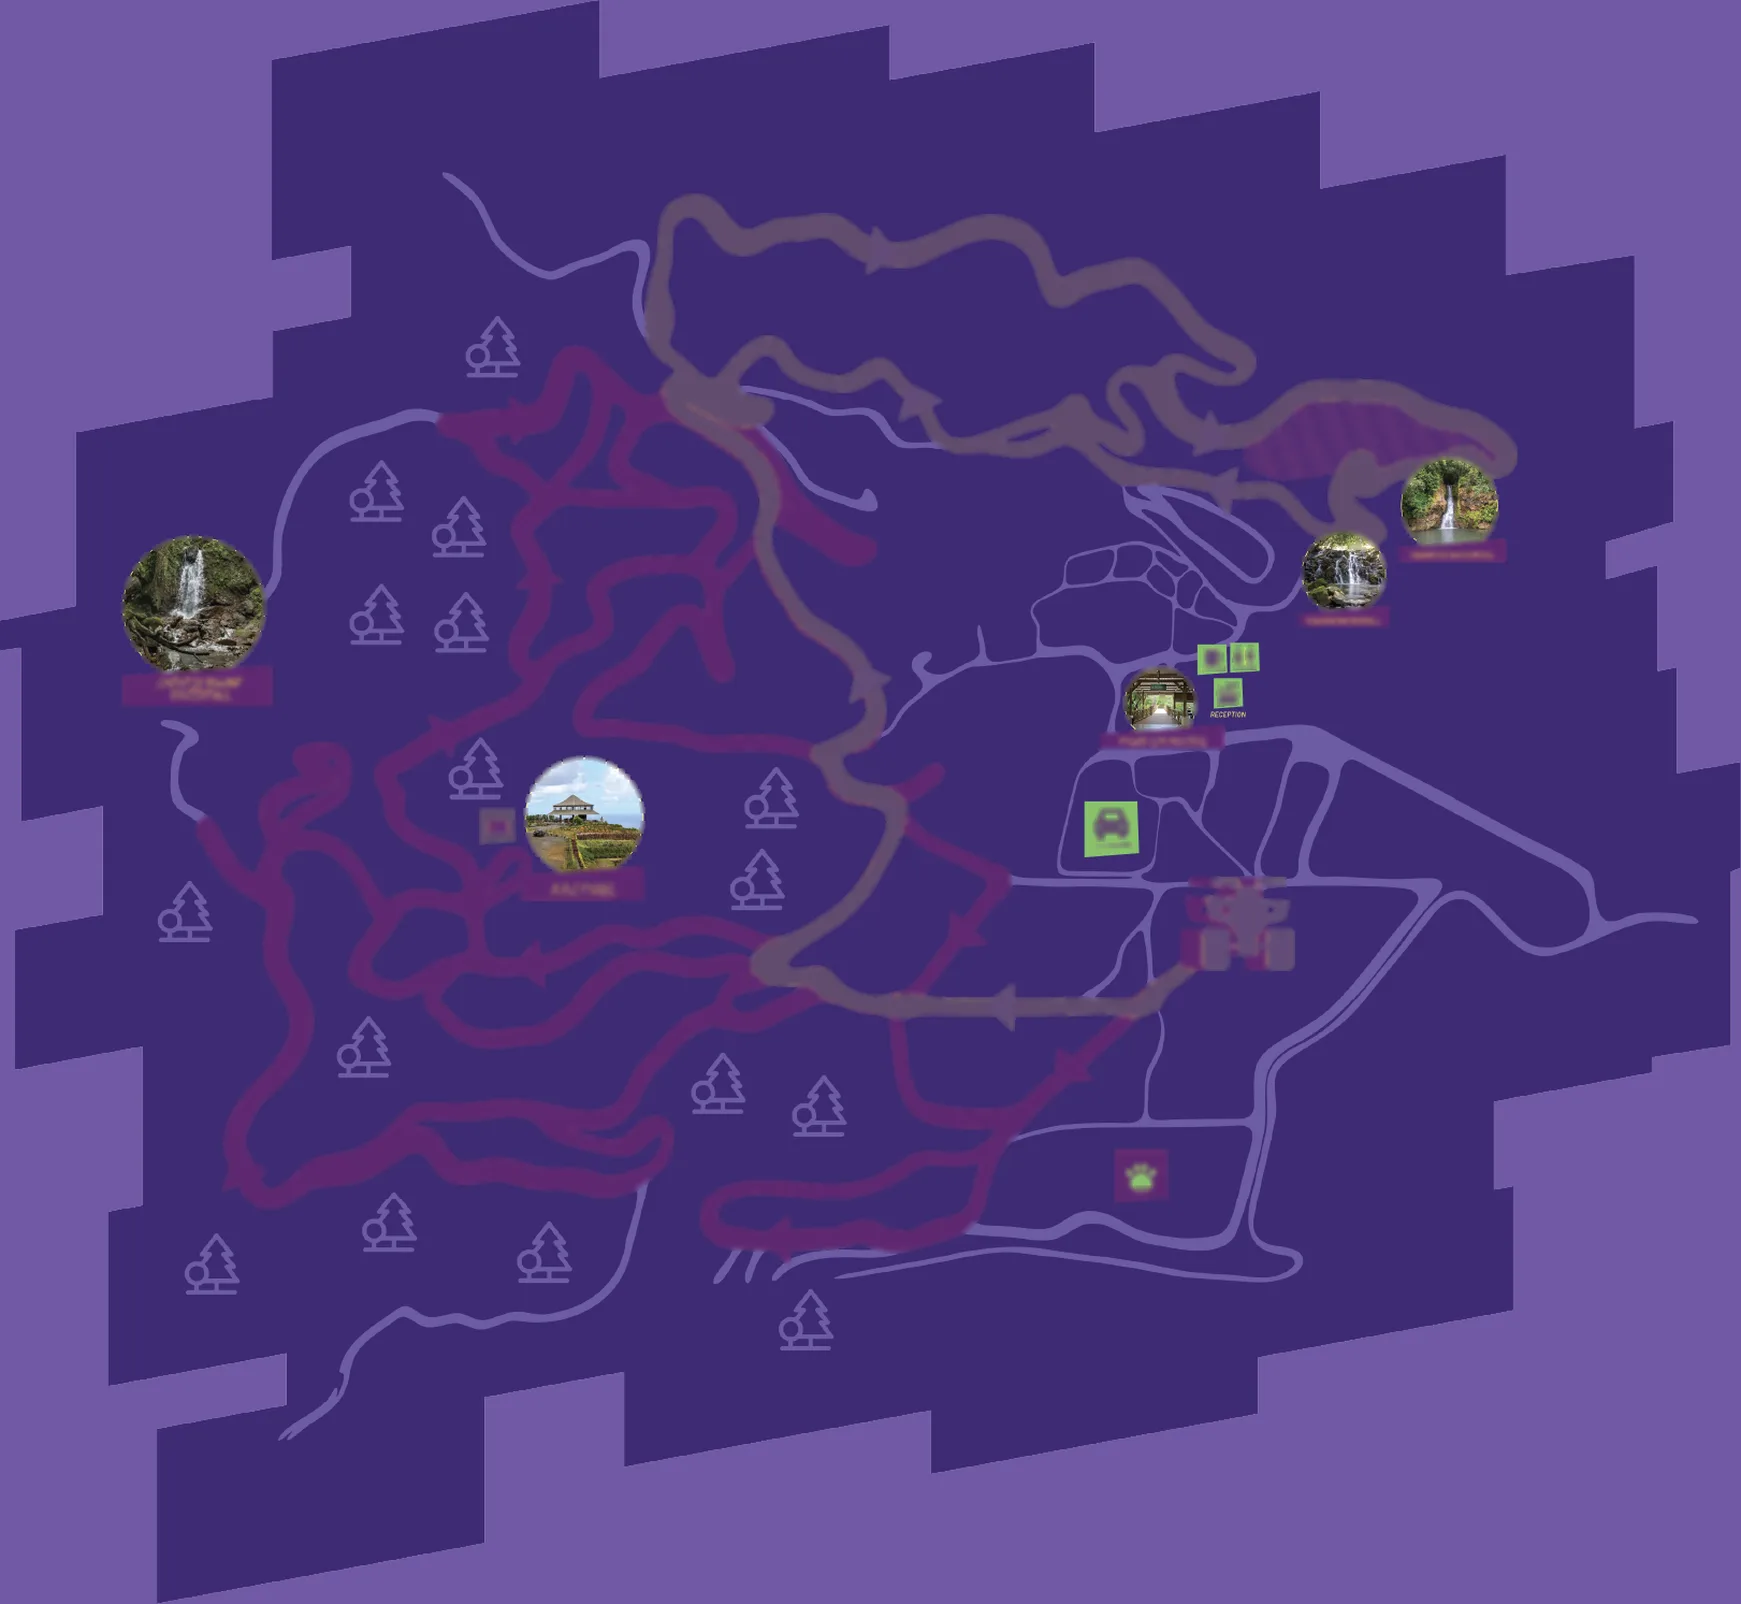
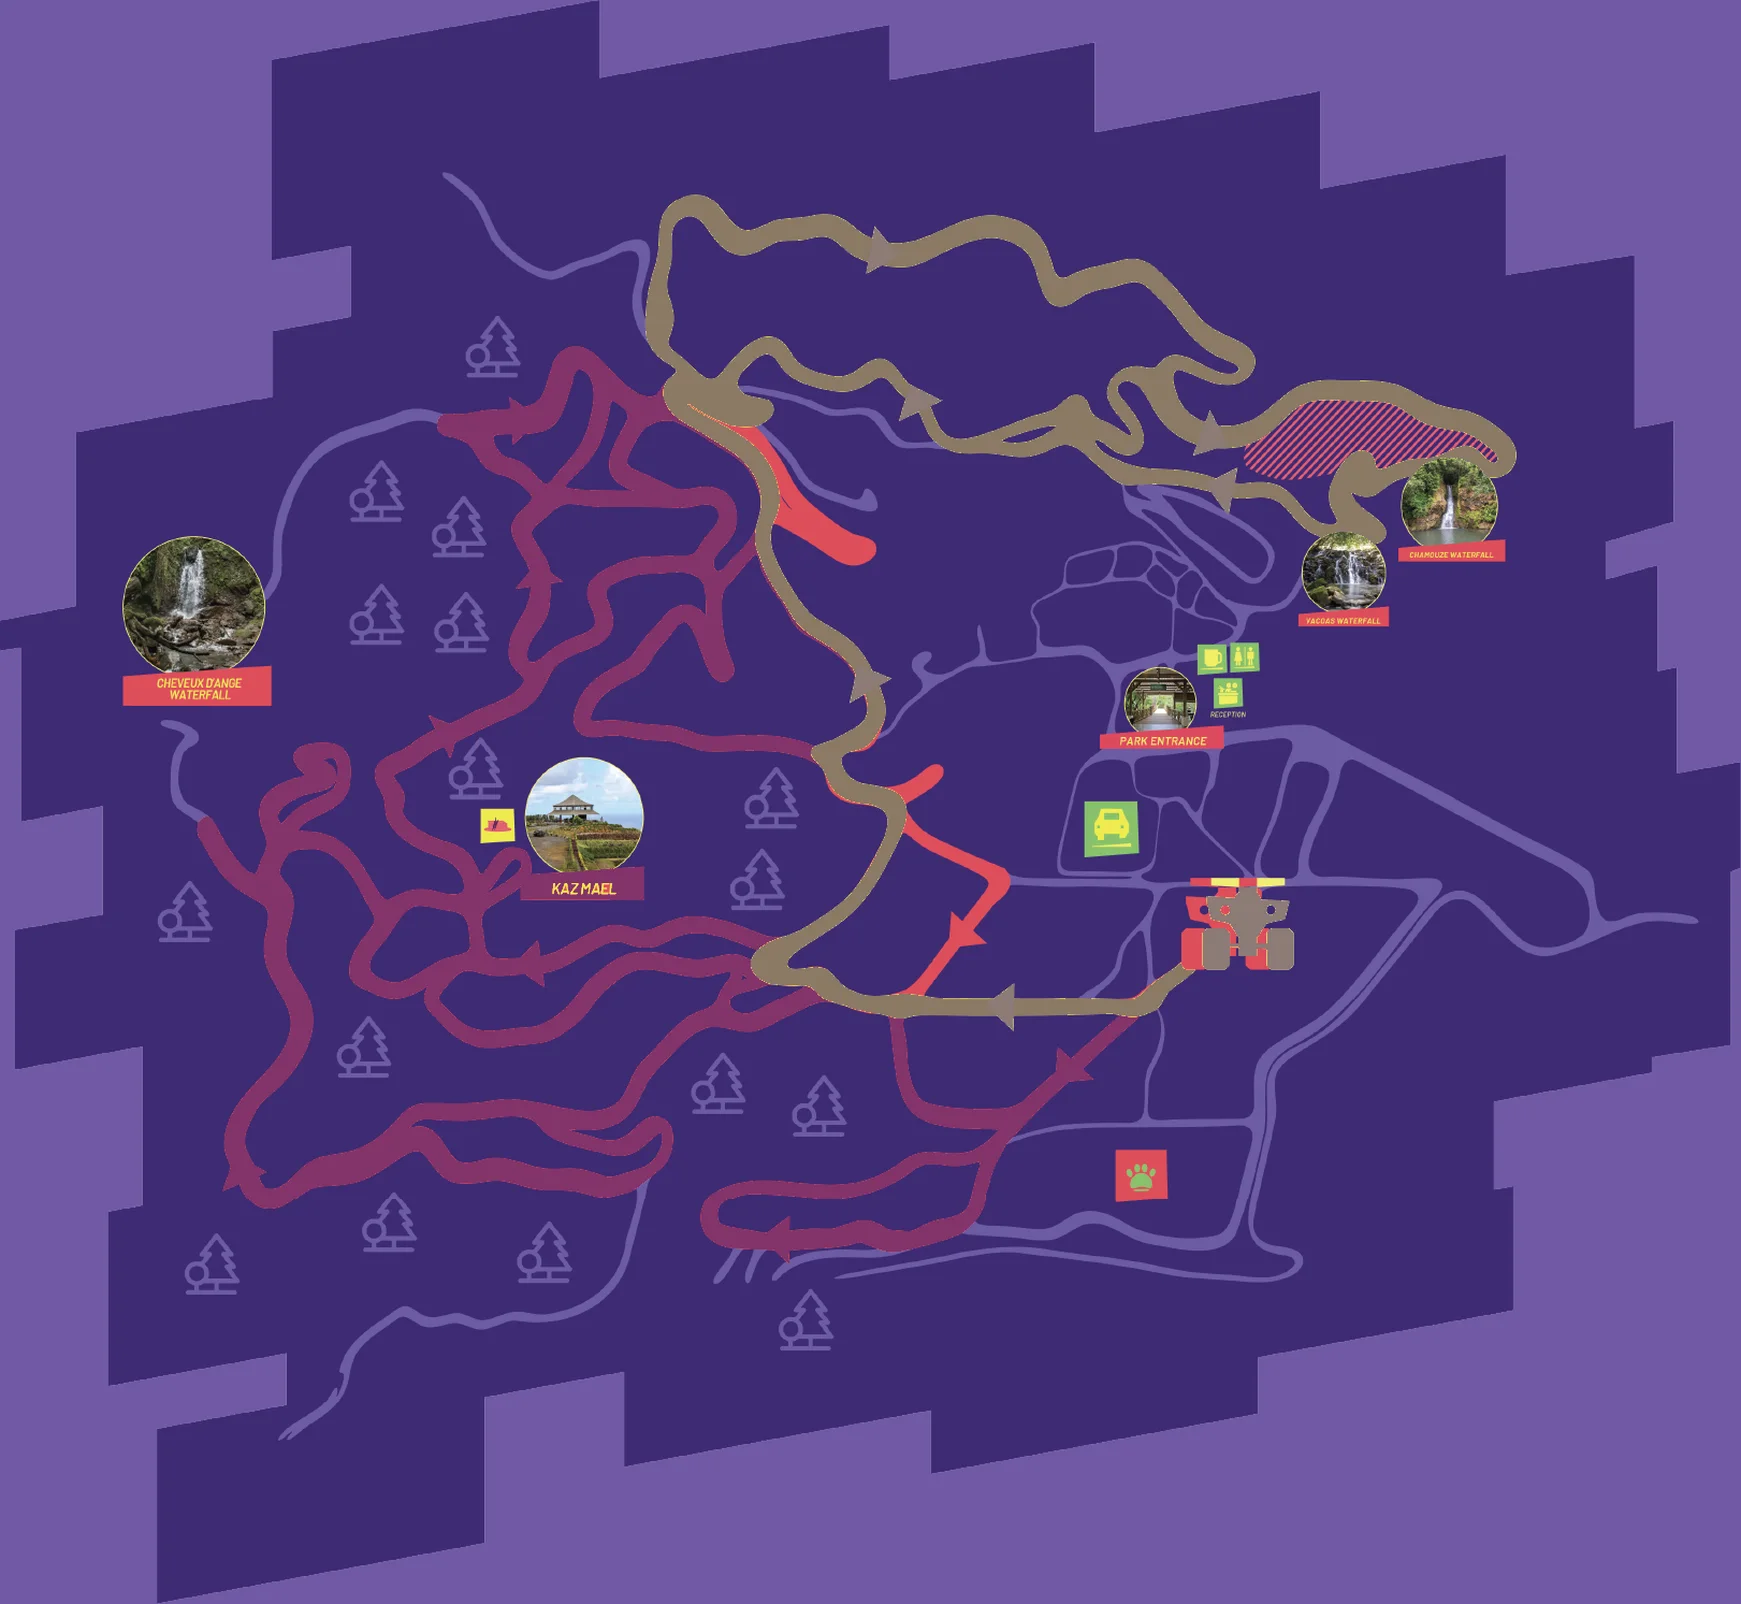
Maps: crisp quad variants, shared red stretch, real east cables, photo tile crop
- Quad map variants no longer blur anything and only dim the loop strokes,
  so labels, icons and roads stay sharp; the stretch the red track shares
  with the yellow loop is painted red on the Adventure variant.
- Zipline cables corrected from the official map (6-11, 2-10, 3-12, 5-12);
  tours re-sequenced on those cables.
- Photo wall tiles crop from the upper third and are a touch larger.

diff --git a/src/data/maps.ts b/src/data/maps.ts
@@ -139,7 +139,7 @@ export const ZIP_ROUTES: MapRoute[] = [
     blurb: 'Two lines at the Chamouzé waterfall: 200 m from the summit platform straight over the cascade and the restaurant terrace, then a 100 m hop back up.',
     priceCat: 'zipline', priceRow: 'Waterfall Zipline',
     facts: [ZH110, ZW120],
-    stations: ['3', '10', '5'],
+    stations: ['3', '12', '5'],
     img: '/images/map/zip-waterfall-pov-2.webp',
   },
   {
@@ -162,7 +162,7 @@ export const ZIP_ROUTES: MapRoute[] = [
     blurb: 'The complete flight: every cable in the network. It opens with The Signature 1.5 km across the valley, climbs the northern ridge over the Coloured Earth and both waterfalls, then finishes with the western chain up the Kazmaël slopes and back into the hub. Around 3 hours of air time.',
     priceCat: 'zipline', priceRow: 'Advenature Flight',
     facts: [ZH140, ZW40, ZW120, WIND],
-    stations: ['16', '7', '1', '4', '2', '6', '11', '12', '10', '3', '15', '14', '13', '8', '9', '7'],
+    stations: ['16', '7', '1', '4', '2', '10', '3', '12', '5', '6', '11', '15', '14', '13', '8', '9', '7'],
     signature: true,
     img: '/images/map/zip-signature-valley.webp',
   },
@@ -174,7 +174,7 @@ export const ZIP_ROUTES: MapRoute[] = [
     blurb: 'Seven lines built around The Signature: the 1.5 km flight from the far-west tower to the valley hub, then the northern ridge, the Coloured Earth and both waterfall crossings.',
     priceCat: 'zipline', priceRow: 'Sky Pulse Tour',
     facts: [ZH140, ZW40, ZW120, WIND],
-    stations: ['16', '7', '1', '4', '2', '6', '11', '12', '10', '3'],
+    stations: ['16', '7', '1', '4', '6', '11', '2', '10', '3', '12', '5'],
     signature: true,
     img: '/images/map/zip-coloured-earth-flight.webp',
   },
@@ -186,7 +186,7 @@ export const ZIP_ROUTES: MapRoute[] = [
     blurb: 'Ten lines end to end: the western chain from the south ridge up past Kazmaël, into the valley hub, over the Coloured Earth and down to the waterfalls. No Signature, all the rest.',
     priceCat: 'zipline', priceRow: '10 Flight Trail',
     facts: [ZH110, ZW120],
-    stations: ['15', '14', '13', '8', '9', '7', '1', '4', '2', '6', '11', '12', '10', '5'],
+    stations: ['15', '14', '13', '8', '9', '7', '1', '4', '6', '11', '2', '10', '3', '12', '5'],
     img: '/images/map/zip-canopy.webp',
   },
   {
@@ -197,7 +197,7 @@ export const ZIP_ROUTES: MapRoute[] = [
     blurb: 'The classic first zipline: seven short lines from the valley hub near the entrance, over the Coloured Earth ridge and down to the Chamouzé falls.',
     priceCat: 'zipline', priceRow: 'Discovery Tour',
     facts: [ZH110, ZW120],
-    stations: ['9', '7', '1', '4', '2', '6', '11', '12', '10', '3'],
+    stations: ['9', '7', '1', '4', '6', '11', '2', '10', '3', '12', '5'],
     img: '/images/map/zip-waterfall-pov.webp',
   },
   {
@@ -224,8 +224,7 @@ export const ZIP_LINES: [string, string][] = [
   ['16', '7'],   // The Signature
   ['15', '14'], ['14', '13'], ['13', '8'],
   ['9', '7'], ['7', '1'], ['1', '4'],
-  ['2', '6'], ['6', '11'],
-  ['3', '10'], ['5', '10'], ['10', '12'],
+  ['6', '11'], ['2', '10'], ['3', '12'], ['5', '12'],
 ];
 
 /** Static lines for the two suspended thrills that sit inside the zipline network. */
@@ -251,11 +250,11 @@ export const ZIP_STATIONS: MapPin[] = [
   zp('4', 70.9, 30.5, 'Coloured Earth Approach', 'The line that brings you over the first stripes of the 23 Coloured Earth.', '/images/map/zip-coloured-earth-flight.webp'),
   zp('2', 83.0, 26.9, 'Coloured Earth Overlook', 'Best view in the network: the full colour field straight below.', '/images/map/zip-coloured-earth-flight-2.webp'),
   zp('6', 76.0, 32.2, 'Coloured Earth South', 'Back across the colour field, heading for the waterfalls.', '/images/map/zip-red-flight.webp'),
-  zp('12', 81.8, 40.4, 'Vacoas Ridge', 'The platform above the Vacoas waterfall, a short walk from the falls landing.', '/images/map/zip-valley-pov.webp'),
-  zp('11', 78.1, 40.5, 'Vacoas Falls Landing', 'A short line down beside the Vacoas falls, 8 to 9 m of white water on your left.', '/images/map/zip-waterfall-pov.webp'),
-  zp('10', 85.2, 36.7, 'Chamouzé Falls Crossing', 'The waterfall crossing: straight over the Chamouzé cascade and the restaurant terrace.', '/images/map/zip-waterfall-pov-2.webp'),
-  zp('5', 84.9, 31.1, 'Chamouzé Upper', 'Climbing back above the falls for the last two lines.', '/images/map/zip-wave.webp'),
-  zp('3', 87.7, 27.8, 'Chamouzé Summit', 'The final platform of the Advenature Flight and the Discovery Tour. Harness off, photos on.', '/images/map/zip-summit-line.webp'),
+  zp('12', 81.8, 40.4, 'Vacoas Falls Landing', 'Two cables land here, right beside the Vacoas waterfall: one from the Coloured Earth ridge, one from Chamouzé Upper.', '/images/map/zip-valley-pov.webp'),
+  zp('11', 78.1, 40.5, 'Canopy Landing', 'The end of the Coloured Earth South line, a short walk from the Vacoas falls.', '/images/map/zip-waterfall-pov.webp'),
+  zp('10', 85.2, 36.7, 'Chamouzé Landing', 'Where the Coloured Earth Overlook line lands, a few steps from the Chamouzé cascade.', '/images/map/zip-waterfall-pov-2.webp'),
+  zp('5', 84.9, 31.1, 'Chamouzé Upper', 'The short 100 m hop back up from the Vacoas falls, the second line of the Waterfall Zipline.', '/images/map/zip-wave.webp'),
+  zp('3', 87.7, 27.8, 'Chamouzé Summit', 'Launch of the 200 m waterfall line straight over the Chamouzé cascade down to the Vacoas landing.', '/images/map/zip-summit-line.webp'),
 ];
 
 export const ZIP_LANDMARKS: MapPin[] = [

diff --git a/src/pages/home/ActivityMap.tsx b/src/pages/home/ActivityMap.tsx
@@ -249,7 +249,7 @@ function GalleryTile({ s, onClick, big }: { s: MapShot; onClick: () => void; big
         boxShadow: h ? '0 18px 40px -18px rgba(0,0,0,.8)' : 'none', transition: 'box-shadow .3s ease',
       }}
     >
-      <Img src={s.src} alt={`${s.tag}: ${s.cap}`} surface="dark" placeholder="#2E0A4E" style={{ width: '100%', height: '100%', objectFit: 'cover', display: 'block', transform: h ? 'scale(1.06)' : 'scale(1)', transition: 'transform .5s ease' }} />
+      <Img src={s.src} alt={`${s.tag}: ${s.cap}`} surface="dark" placeholder="#2E0A4E" style={{ position: 'absolute', inset: 0, width: '100%', height: '100%', objectFit: 'cover', objectPosition: '50% 30%', display: 'block', transform: h ? 'scale(1.06)' : 'scale(1)', transition: 'transform .5s ease' }} />
       <div style={{ position: 'absolute', inset: 0, background: 'linear-gradient(to top, rgba(31,0,51,.85), rgba(31,0,51,0) 55%)', opacity: h ? 1 : 0.85, transition: 'opacity .3s' }} />
       <span style={{ position: 'absolute', top: 8, right: 8, ...GLASS, borderRadius: 999, padding: '3px 8px', fontSize: 9 }}><Pulse n={s.thrill} size={9} /></span>
       <span style={{ position: 'absolute', left: 10, right: 10, bottom: 9, textAlign: 'left' }}>
@@ -567,7 +567,7 @@ export function ActivityMap({ eyebrow, title, intro, map, alt, routes, pins, dra
               <span style={{ fontFamily: MONO, fontSize: 10.5, fontWeight: 700, letterSpacing: '.16em', color: '#33FF74' }}>{gallery.eyebrow}</span>
               <span style={{ fontFamily: MONO, fontSize: 10.5, letterSpacing: '.12em', color: 'rgba(255,255,255,.55)' }}>{gallery.shots.length} PHOTOS · TAP TO OPEN</span>
             </div>
-            <div style={{ display: 'grid', gridTemplateRows: `repeat(2, ${isMobile ? 120 : 150}px)`, gridAutoFlow: 'column', gridAutoColumns: isMobile ? 170 : 214, gap: 10, overflowX: 'auto', padding: '2px 2px 12px', scrollSnapType: 'x mandatory', scrollbarWidth: 'none' }}>
+            <div style={{ display: 'grid', gridTemplateRows: `repeat(2, ${isMobile ? 124 : 156}px)`, gridAutoFlow: 'column', gridAutoColumns: isMobile ? '186px' : '234px', gap: 10, overflowX: 'auto', padding: '2px 2px 12px', scrollSnapType: 'x mandatory', scrollbarWidth: 'none' }}>
               {gallery.shots.map((s, i) => <GalleryTile key={s.src} s={s} big={i === 0} onClick={() => setShot(i)} />)}
             </div>
           </div>
